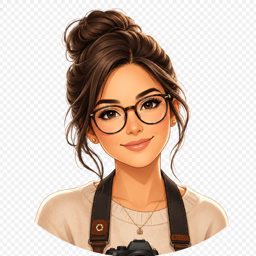
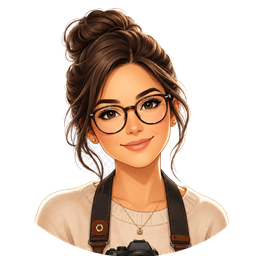
feat(agente): Lia recortada (fundo transparente) + fim da quebra de linha
- lia.png agora tem fundo transparente (recorte por flood-fill); o
  botão mostra a Lia inteira flutuando, sem círculo nem fundo dourado
- insertIntoComposer numa tacada só (insertText): sem insertParagraph,
  que podia virar Enter e quebrar/duplicar a mensagem
- quebras de linha viram espaço na inserção; agente instruído a
  responder em um parágrafo só
- manifest 1.3.1

diff --git a/whatsapp-extension/agente.js b/whatsapp-extension/agente.js
@@ -14,19 +14,17 @@
   const style = document.createElement('style');
   style.textContent = `
     #fpa-fab {
-      position: fixed; right: 24px; bottom: 104px;
-      width: 54px; height: 54px; border-radius: 50%;
-      background-color: #D4A94A;
-      background-size: 160%; background-position: 50% 13%;
-      background-repeat: no-repeat;
-      border: none; cursor: pointer; z-index: 2147483000;
-      box-shadow: 0 4px 16px rgba(0,0,0,.28);
-      overflow: hidden;
+      position: fixed; right: 20px; bottom: 92px;
+      width: 76px; height: 76px;
+      background: none; border: none; padding: 0;
+      cursor: pointer; z-index: 2147483000;
+      filter: drop-shadow(0 3px 7px rgba(0,0,0,.4));
       transition: transform .15s ease;
     }
+    #fpa-fab img { width: 100%; height: 100%; object-fit: contain; display: block; }
     #fpa-fab:hover { transform: scale(1.08); }
     #fpa-panel {
-      position: fixed; right: 24px; bottom: 170px; width: 340px;
+      position: fixed; right: 24px; bottom: 182px; width: 340px;
       max-height: 72vh; background: #fff; border-radius: 16px;
       box-shadow: 0 10px 40px rgba(0,0,0,.30); z-index: 2147483000;
       display: none; flex-direction: column; overflow: hidden;
@@ -38,12 +36,8 @@
       display: flex; align-items: center; justify-content: space-between;
     }
     .fpa-head-id { display: flex; align-items: center; gap: 10px; }
-    .fpa-avatar {
-      width: 32px; height: 32px; border-radius: 50%;
-      background-color: rgba(255,255,255,.25);
-      background-size: 160%; background-position: 50% 13%;
-      background-repeat: no-repeat;
-    }
+    .fpa-avatar { width: 40px; height: 40px; }
+    .fpa-avatar img { width: 100%; height: 100%; object-fit: contain; display: block; }
     .fpa-head-txt { display: flex; flex-direction: column; line-height: 1.15; }
     .fpa-name { font-size: 15px; font-weight: 700; }
     .fpa-sub { font-size: 11px; opacity: .85; }
@@ -172,19 +166,17 @@
     );
   }
 
-  // Insere o texto no compositor preservando as quebras de linha.
-  // Escreve UMA vez só, linha por linha: insertParagraph cria a quebra
-  // dentro da mesma mensagem, insertText escreve o conteúdo.
+  // Insere o texto no compositor numa tacada só. Sem insertParagraph
+  // (ele podia virar Enter e enviar/quebrar a mensagem em várias).
+  // Quebras de linha viram espaço — o agente responde em um parágrafo.
   function insertIntoComposer(text) {
     const composer = getComposer();
     if (!composer) return false;
     composer.focus();
     document.execCommand('selectAll', false, null);
     document.execCommand('delete', false, null);
-    String(text).split('\n').forEach((line, i) => {
-      if (i > 0) document.execCommand('insertParagraph');
-      if (line) document.execCommand('insertText', false, line);
-    });
+    const oneLine = String(text).replace(/\s*\n+\s*/g, ' ').trim();
+    document.execCommand('insertText', false, oneLine);
     return true;
   }
 
@@ -219,14 +211,14 @@
   const fab = document.createElement('button');
   fab.id = 'fpa-fab';
   fab.title = 'Lia — assistente de atendimento';
-  fab.style.backgroundImage = `url("${LIA_IMG}")`;
+  fab.innerHTML = `<img src="${LIA_IMG}" alt="Lia">`;
 
   const panel = document.createElement('div');
   panel.id = 'fpa-panel';
   panel.innerHTML = `
     <div class="fpa-head">
       <div class="fpa-head-id">
-        <span class="fpa-avatar" style="background-image:url('${LIA_IMG}')"></span>
+        <span class="fpa-avatar"><img src="${LIA_IMG}" alt="Lia"></span>
         <div class="fpa-head-txt">
           <span class="fpa-name">Lia</span>
           <span class="fpa-sub">Assistente de atendimento</span>

diff --git a/ai-agent.ts b/ai-agent.ts
@@ -31,7 +31,7 @@ const BASE_INSTRUCTIONS = `Você é o assistente virtual de um estúdio de fotog
 Abaixo você recebe quatro blocos de configuração: objetivo e fluxo, personalidade, base de conhecimento e regras e limites. Siga todos à risca. As "Regras e limites" têm prioridade sobre tudo — se algo conflitar, obedeça as regras.
 
 Princípios que valem sempre:
-- Responda em português do Brasil, no estilo WhatsApp: mensagens curtas e naturais (no máximo 2 linhas).
+- Responda em português do Brasil, no estilo WhatsApp: uma mensagem curta e natural, em um único parágrafo, SEM quebras de linha.
 - Seja objetivo. Cada mensagem leva a conversa adiante — uma pergunta ou um próximo passo. Nada de enrolação nem de elogios vazios.
 - Faça uma pergunta por vez.
 - Nunca invente preço, data, horário, prazo ou condição que não esteja na base de conhecimento. Se não souber, diga que vai confirmar com a equipe.
